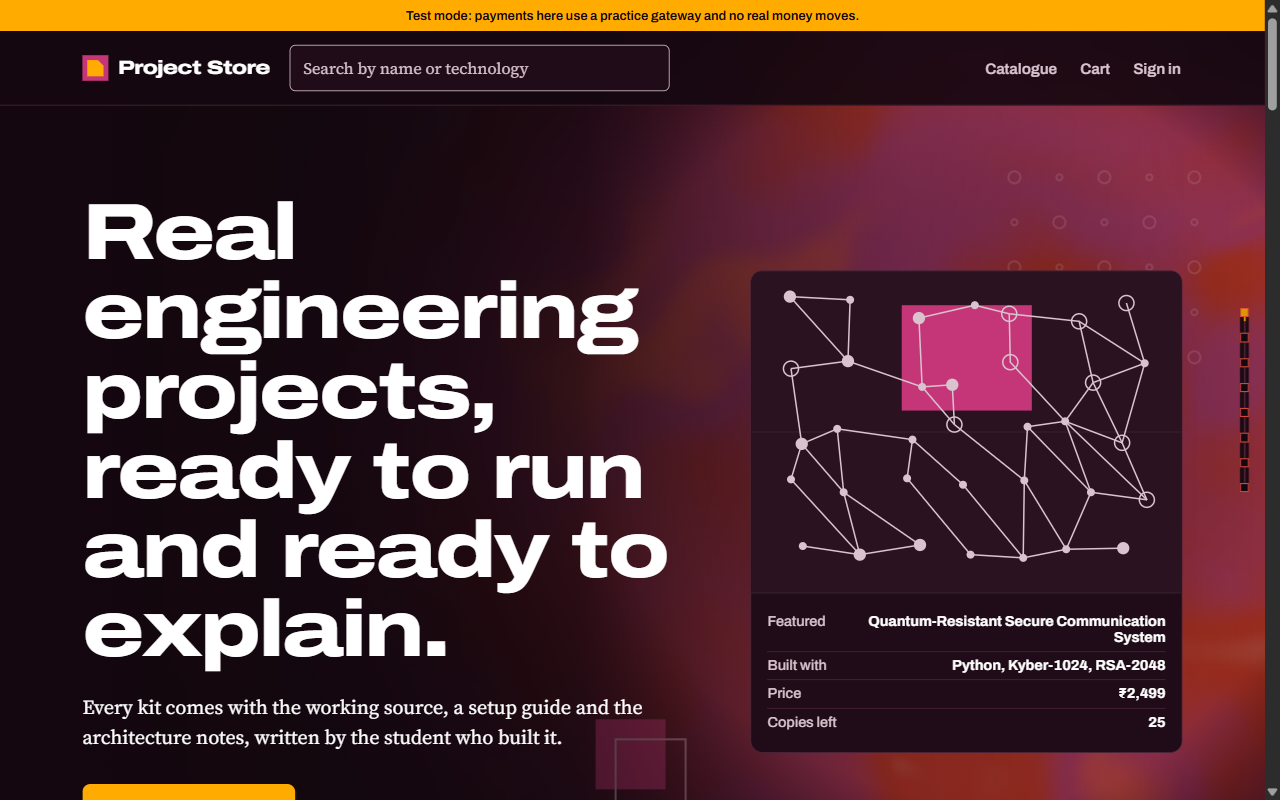
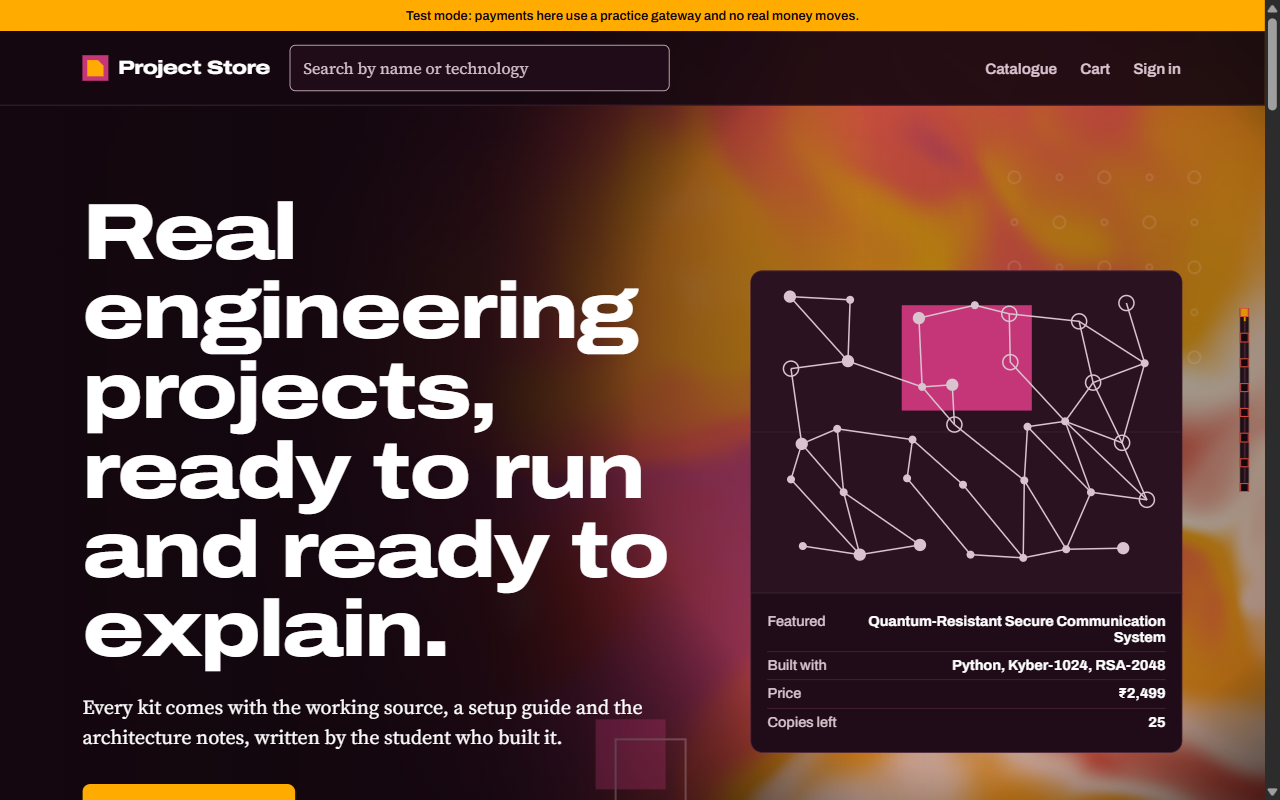
Palette: final screenshots, release steps for v1.2.0 [10:38 IST]

Changed region(s): [[0.4062, 0.125, 1.0, 1.0]]

diff --git a/docs/RELEASE_STEPS_v1.2.md b/docs/RELEASE_STEPS_v1.2.md
@@ -1,0 +1,84 @@
+# Releasing v1.2.0 (palette and 3D background)
+
+Nothing here has been run. `v1.2-palette` was cut from `release-v1.1.0`, so it contains v1.1.0 plus the palette work. `main` is still v1.0.0. The order matters: v1.1.0 goes first, then v1.2.0, so each release is a fast-forward and each can be tagged and, if CI turns red, reverted on its own.
+
+Read `docs/RELEASE_STEPS.md` (v1.1.0) first; this file repeats only the commands. Run from PowerShell in the project folder, one block at a time.
+
+## 0. Before you start
+
+```powershell
+cd "C:\Users\Vignesh T\Documents\Project Store"
+git status                              # must say: nothing to commit, working tree clean
+git fetch origin
+git log --oneline -1 origin/main        # d04a0c4 until v1.1.0 is merged
+git log --oneline -1 origin/release-v1.1.0
+git log --oneline -1 origin/v1.2-palette
+git merge-base --is-ancestor origin/release-v1.1.0 origin/v1.2-palette; $LASTEXITCODE    # 0 means v1.2-palette contains release-v1.1.0
+```
+
+## 1. Merge v1.1.0 first (skip if it is already in main)
+
+```powershell
+git checkout main
+git pull --ff-only origin main
+git merge --ff-only release-v1.1.0
+git push origin main
+gh run list --branch main --limit 1
+gh run watch                            # wait for green
+git tag -a v1.1.0 -m "v1.1.0: site-wide scroll motion system, tuning layer, accessibility fixes"
+git push origin v1.1.0
+```
+
+## 2. Then v1.2.0
+
+```powershell
+git checkout main
+git pull --ff-only origin main
+git merge --ff-only v1.2-palette        # refuses to run unless it can fast-forward
+git push origin main
+gh run list --branch main --limit 1
+gh run watch                            # test, security and build must pass; deploy runs on main
+```
+
+## 3. If CI is red: put main back without rewriting history
+
+Revert only what v1.2.0 added; v1.1.0 stays:
+
+```powershell
+git revert --no-edit origin/release-v1.1.0..main      # one revert commit per palette commit, newest first
+git push origin main
+```
+
+Fix the cause on `v1.2-palette`, then merge again with `git merge v1.2-palette` (not `--ff-only`, because `main` has moved). To undo v1.1.0 as well, use the revert block in `docs/RELEASE_STEPS.md`.
+
+## 4. Tag v1.2.0 (only when CI on main is green)
+
+```powershell
+git tag -a v1.2.0 -m "v1.2.0: warm palette, tokens, contrast checks, 3D background"
+git push origin v1.2.0
+```
+
+## 5. Rebuild the live stack from main
+
+The live stack at `localhost:8001` runs `release-v1.1.0` today (it was not rebuilt for v1.2: see `docs/DECISIONS.md`, 09:25). Its database is in a Docker volume and the build does not touch it. **Never** run `docker compose down -v`.
+
+```powershell
+git checkout main
+docker compose up -d --build --no-deps web sweeper
+docker compose ps                       # web must show (healthy); wait up to a minute
+docker compose exec web flask db current     # must print 0004 (head), unchanged
+curl.exe -s http://localhost:8001/healthz     # {"status":"ok"}
+```
+
+## What to look at afterwards
+
+Open `http://localhost:8001`: the home page should show the glowing background behind the hero and the pinned showcase; sign in and register the same; a paid order page too. Catalogue, product, cart, checkout and pay have a still gradient, admin is plain dark. Turn on "Reduce motion" in Windows: the background freezes to one frame. To switch the 3D off for good: `{ "off": ["bg3d"] }` in `app/fx.json`, rebuild.
+
+## Commit hashes at the time of writing
+
+| Branch | Commit |
+|---|---|
+| main (v1.0.0) | `d04a0c4` |
+| release-v1.1.0 | `81428c7` |
+| motion-3 | `2687ec9` |
+| v1.2-palette | `git log --oneline -1 v1.2-palette` (the branch also holds this file, the screenshots and the notes on top of release-v1.1.0) |

diff --git a/docs/DECISIONS.md b/docs/DECISIONS.md
@@ -38,4 +38,4 @@ Newest last.
 | 09:20 | Canvas cost, measured with the canvas animating (`?fx=full`) against the same page in still mode (`?fx=lite`), three interleaved rounds each: login 13.7 ms p50 / 14.4 to 20.8 ms p95 animating, against 7.0 / 13.9 still. Render scale 0.5 and 0.15 gave the same result, so the cost is the animated WebGL layer itself, not the shader; `desynchronized: true` made p95 worse and was removed; a 30 fps cap changed nothing and was removed. | Lower the scale further; change the shader; accept. | The brief fixes the scale and the look. What is left is one extra vsync per frame (about 72 fps instead of 144) on this hybrid-GPU laptop. Reported as a miss against the 16.7 ms p95 budget on pages with the canvas, not hidden. |
 | 09:25 | The live stack is NOT rebuilt from `v1.2-palette`: it stays on `release-v1.1.0`. | Rebuild anyway. | The brief allows a rebuild only if every gate is green, and the 16.7 ms p95 gate on canvas pages is not (see the row above). The owner can rebuild with one command in `docs/RELEASE_STEPS_v1.2.md`. |
 | 09:30 | Measurement hygiene: earlier scripts that failed left browser contexts open (one hung a close for 30 minutes), which slowed every later measurement by up to 4x. All stray contexts were closed before the final numbers were taken, and the final numbers are interleaved against `release-v1.1.0` served from a worktree on another port. | Trust the earlier runs. | The same unchanged release pages measured 7 ms at one time and 28 ms at another; only side-by-side runs mean anything. |
-| 10:30 | The shader's start time is 0 (the animation begins where the prototype's does) and the still frame is the moment six seconds in. My first port started at 11 and the home page came out dimmer and redder than the prototype. | Keep 11; match the prototype. | Side by side with the prototype (`home_vs_prototype.png`) the phase at 11 s sits in the violet and red part of the colour ramp; around 0 to 6 s it passes through the amber and white-hot part the owner approved. Contrast was re-measured after the change at every width. |
+| 10:15 | The shader's start time is 0 (the animation begins where the prototype's does) and the still frame is the moment six seconds in. My first port started at 11 and the home page came out dimmer and redder than the prototype. | Keep 11; match the prototype. | Side by side with the prototype (`home_vs_prototype.png`) the phase at 11 s sits in the violet and red part of the colour ramp; around 0 to 6 s it passes through the amber and white-hot part the owner approved. Contrast was re-measured after the change at every width. |
